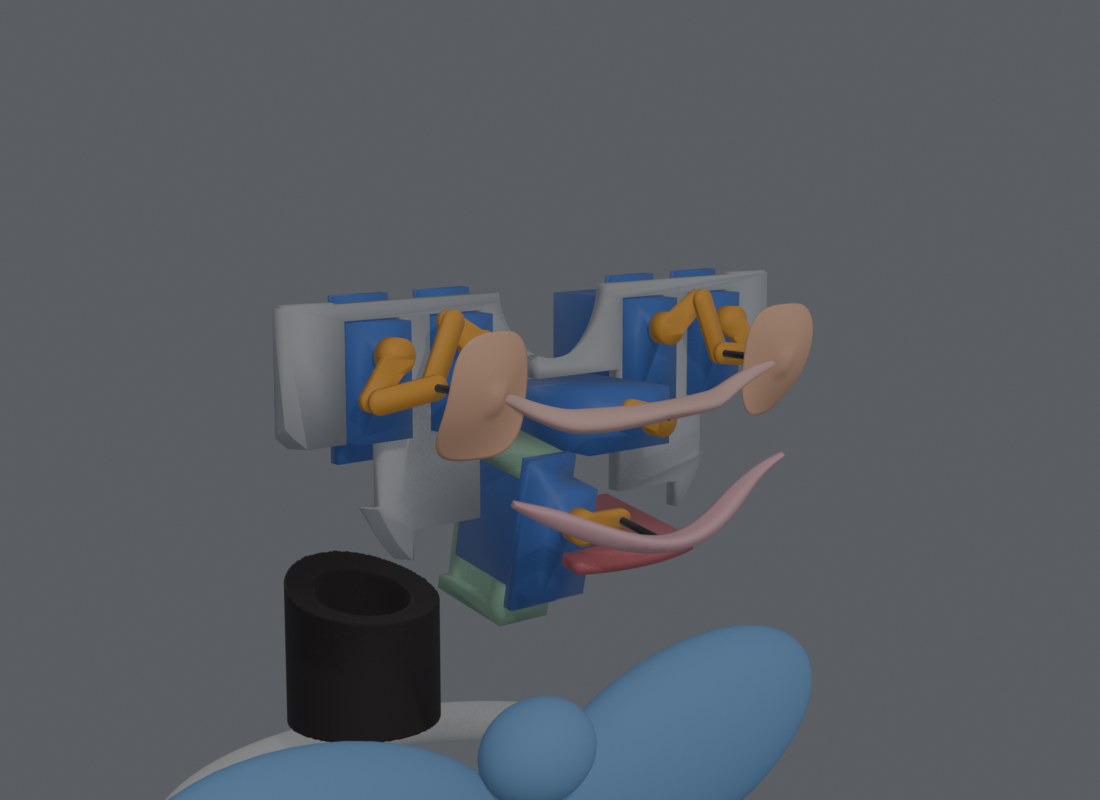
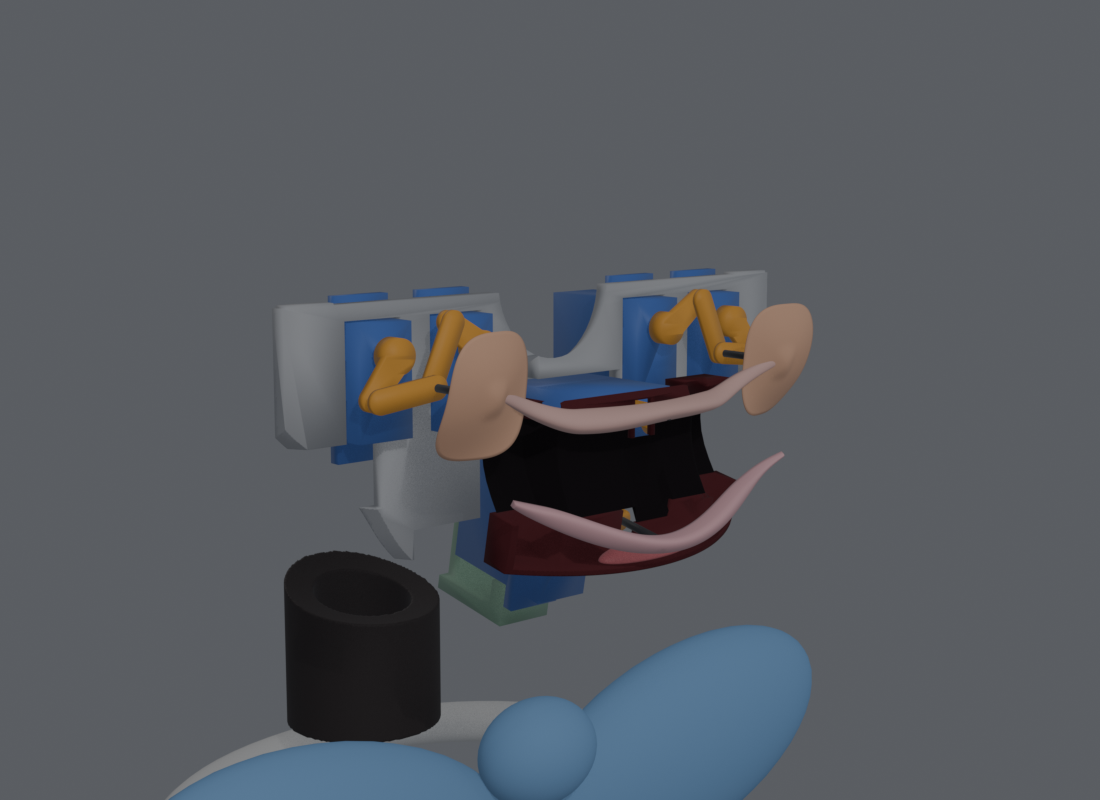
Add mouth-box previews (dark mouth cavity hides servos when the jaw opens)
- output/Pinocchio_Mouth_Revamp: before/after sheet, updated pose close-ups and
  x-ray for mouth design 02 (fixed roof, jaw tray + tongue, fabric mouth bag)
- CLAUDE_HANDOFF_STATUS.md: mouth box and git branch notes

Changed region(s): [[0.4327, 0.4688, 0.68, 0.7188]]

diff --git a/CLAUDE_HANDOFF_STATUS.md b/CLAUDE_HANDOFF_STATUS.md
@@ -371,3 +371,13 @@ Current face: `17_Face_Art_Direction/face_model_37` (v37).
 **Physical:** jaw pivot side play under ~0.3 mm.
 
 **Not yet updated:** sculpt kit 17 still has build 36 seams.
+
+## Update — mouth box, mouth design 02, 19 October 2026
+
+**Current mouth design:** `18_Mouth_Revamp/mouth_design_02`.
+- A fixed roof (bonded in the face), a jaw tray with tongue (bonded in the chin) and a fabric mouth bag hide the servos when the jaw opens.
+- The upper-lip hooks moved to x ±21.5.
+
+**Checks:** mouth clearance PASS vs face build 37; print details PASS.
+
+**Git:** the workspace previews were pushed earlier on branch `pinocchio-mouth-revamp` (*.blend excluded). The canonical CAD on Z: is not in git.
